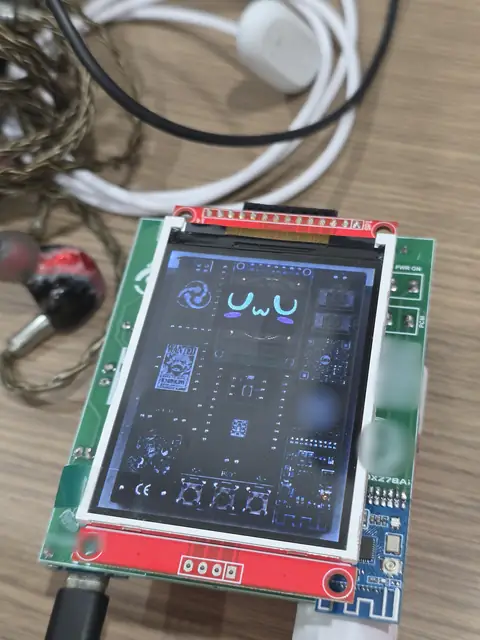
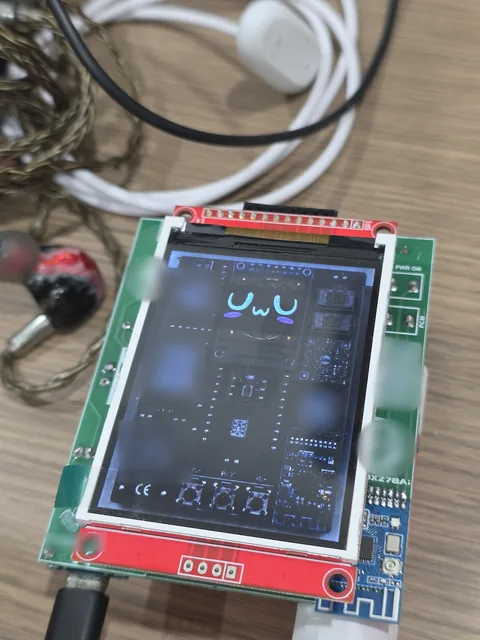
fix(photos): blur remaining third-party silkscreen art in photos 03, 04, 06
Blur the ring logo, poster and lion drawing on the left board edge of 06
and in the on-screen board drawings of 03 and 04 (full images and thumbs).
Re-exported without metadata; Wi-Fi bar and earlier redactions unchanged.
Correct the redaction claims in README, Pages, THIRD_PARTY_NOTICES and
ART-DIRECTION, and add a by-eye art check to the photo rules.

diff --git a/docs/index.html b/docs/index.html
@@ -308,7 +308,7 @@
     <!-- 6C. REAL HARDWARE -->
     <section id="real-hardware" data-pace="chapter" aria-labelledby="real-hw-h">
       <h2 id="real-hw-h" class="ds-heading" data-level="2">Real hardware</h2>
-      <p>Photos of the physical RB5320XZ78AI build running the firmware, taken by the repository owner. The network name, setup address, serial prints, QR codes and third-party silkscreen art are blurred or removed from every image, and the files carry no metadata. Select a photo for the full-size version.</p>
+      <p>Photos of the physical RB5320XZ78AI build running the firmware, taken by the repository owner. The network name, setup address, serial prints and QR codes are blurred or covered by a solid bar. Third-party silkscreen art (a ring logo, a poster and a lion drawing, on the board edge and in the line-art drawings shown on the screen) is blurred in every photo where it appears. Photo 05 (back of the board) shows none, and the files carry no metadata. Select a photo for the full-size version.</p>
       <ul class="real-hw">
         <li>
           <figure>

diff --git a/docs/ART-DIRECTION.md b/docs/ART-DIRECTION.md
@@ -183,7 +183,7 @@ Photos of the physical build live in `docs/assets/hardware/real/`. They are docu
 - **Alt text and caption:** alt starts with `design:os by Jang. Real hardware: ` and then one factual English sentence. The caption is `design:os by Jang · <short title>`.
 - **Originals** stay outside the repository. Never commit an unredacted version: git history keeps every file.
 - **Own material only.** Use the owner's own photos. See `THIRD_PARTY_NOTICES.md`.
-- **Third-party art on the board.** Silkscreen logos and posters printed on a board belong to someone else (section 12). Blur them with a heavy mosaic and blur before export, so only the owner's own hardware stays recognisable.
+- **Third-party art on the board.** Silkscreen logos and posters printed on a board belong to someone else (section 12). Blur them with a heavy mosaic and blur before export, so only the owner's own hardware stays recognisable. Known items are a ring logo, a WANTED-style poster and a lion drawing, on the board edge and inside the on-screen board drawings. OCR and the S-13 check cannot see art, so check every photo by eye at 100% zoom, left and right board edges and the screen, before export. Photo 06 and 03/04 were re-exported after a post-merge review found missed regions.
 
 ## 7. Promo formats
 

diff --git a/THIRD_PARTY_NOTICES.md b/THIRD_PARTY_NOTICES.md
@@ -42,4 +42,4 @@ THE SOFTWARE.
 
 ## Real hardware photos
 
-The six photos in `docs/assets/hardware/real/` were taken by the repository owner, Jang Trịnh, of his own build. They are his own material and are covered by the PolyForm Shield 1.0.0 licence of this repository. Network names, setup addresses, serial prints, QR codes and third-party silkscreen art are blurred or removed, and the files carry no metadata.
+The six photos in `docs/assets/hardware/real/` were taken by the repository owner, Jang Trịnh, of his own build. They are his own material and are covered by the PolyForm Shield 1.0.0 licence of this repository. Network names, setup addresses, serial prints and QR codes are blurred or covered by a solid bar. Third-party silkscreen art (a ring logo, a poster and a lion drawing, on the board edge and in the line-art drawings shown on the screen) is blurred in every photo where it appears. Photo 05 (back of the board) shows none, and the files carry no metadata.

diff --git a/README.md b/README.md
@@ -70,7 +70,7 @@ The avatar build and the flash step read your own device dumps. Dumps and built 
 
 ## Real hardware
 
-Photos of the physical RB5320XZ78AI build, taken by the repository owner. The network name, setup address, serial prints, QR codes and third-party silkscreen art are blurred or removed from every image, and the files carry no metadata. Select a photo for the full-size version.
+Photos of the physical RB5320XZ78AI build, taken by the repository owner. The network name, setup address, serial prints and QR codes are blurred or covered by a solid bar. Third-party silkscreen art (a ring logo, a poster and a lion drawing, on the board edge and in the line-art drawings shown on the screen) is blurred in every photo where it appears. Photo 05 (back of the board) shows none, and the files carry no metadata. Select a photo for the full-size version.
 
 <table>
 <tr>
